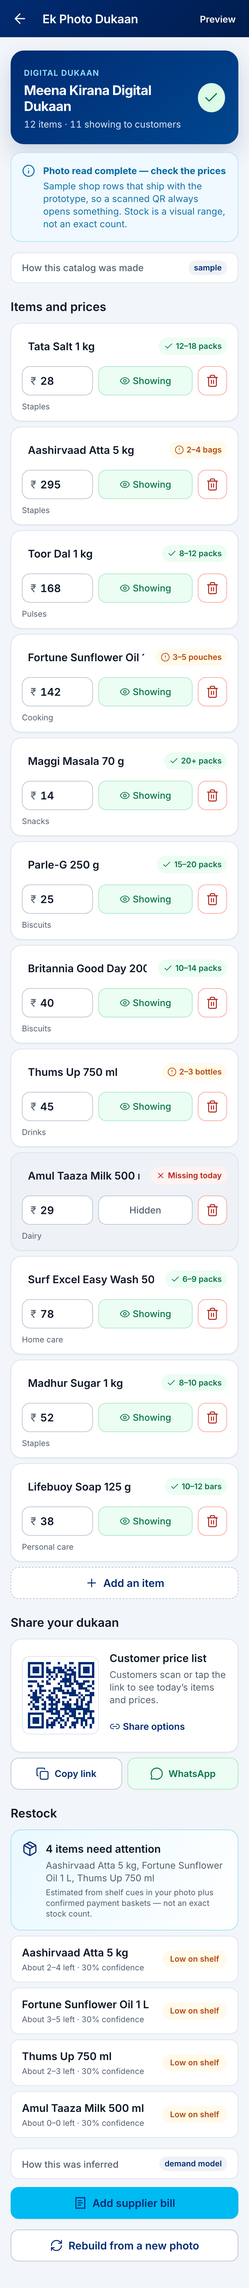
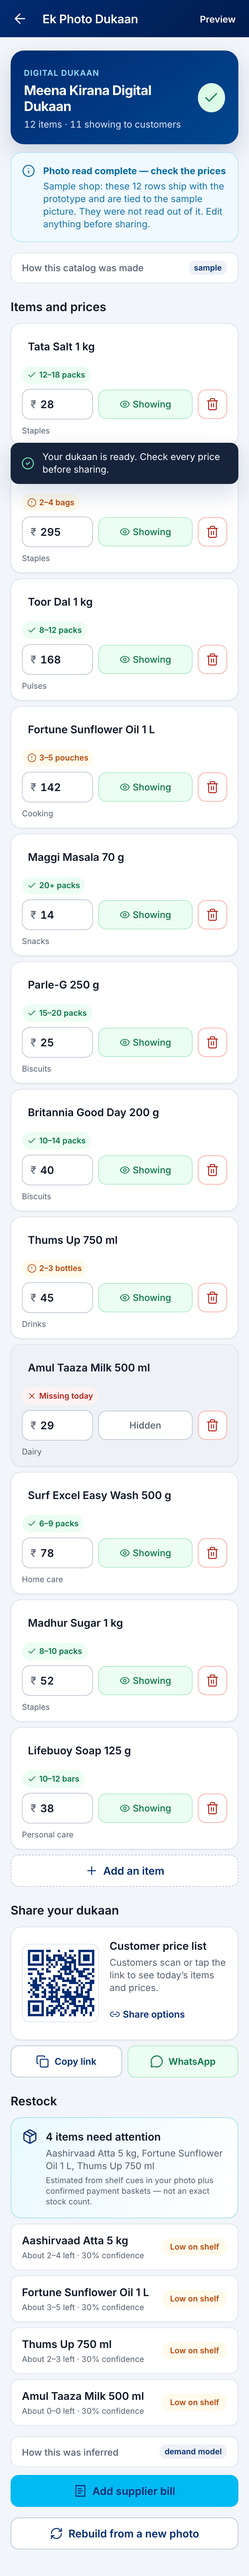
Finish the accessibility pass on inputs and the catalog editor.
Focus indicators on wrapped inputs were a cyan border with a cyan glow, which
sits under 3:1 against white and read as decoration rather than as focus. They
now use the same navy ring and cyan halo as every other focusable control, so
keyboard position is obvious on the filter selects, the QR form and the price
fields.

Product names in the catalog editor were being squeezed by the stock tag on the
same flex line and clipped mid-word. The name field now takes the full row and
the tag wraps beneath it: the one string a merchant needs to read to trust the
catalog can no longer truncate at any text size.

Also left-aligns the form controls under the centred QR card, and refreshes the
route and journey screenshots against the current build.

diff --git a/merchant-app/src/Dukaan.css b/merchant-app/src/Dukaan.css
@@ -279,6 +279,13 @@
   font-size: var(--fs-label);
 }
 
+/* Sets up what the read will do before it runs, so an empty result reads as the
+   product working rather than as a broken sample. Wraps instead of truncating:
+   the caveat is the point of the line. */
+.sample-card .sample-hint {
+  text-wrap: pretty;
+}
+
 .sample-card > svg {
   flex-shrink: 0;
   width: var(--icon-md);
@@ -486,14 +493,17 @@
   background: var(--color-surface-sunken);
 }
 
+/* Product names are the one thing that must never truncate, so the stock tag
+   wraps to its own line rather than squeezing the field. */
 .item-top {
   display: flex;
+  flex-wrap: wrap;
   align-items: center;
   gap: var(--space-2);
 }
 
 .item-top > input {
-  flex: 1;
+  flex: 1 1 100%;
   min-width: 0;
   min-height: var(--tap);
   padding: 0 var(--space-2);
@@ -511,9 +521,9 @@
 }
 
 .item-top > input:focus {
-  border-color: var(--brand-cyan);
+  border-color: var(--brand-navy);
   background: var(--color-surface);
-  box-shadow: 0 0 0 3px rgb(0 186 242 / 22%);
+  box-shadow: 0 0 0 4px rgb(0 186 242 / 45%);
 }
 
 .stock-tag {

diff --git a/merchant-app/src/App.css b/merchant-app/src/App.css
@@ -1214,8 +1214,8 @@
 .filters select:focus,
 .form-field select:focus,
 .form-field input:focus {
-  border-color: var(--brand-cyan);
-  box-shadow: 0 0 0 3px rgb(0 186 242 / 22%);
+  border-color: var(--brand-navy);
+  box-shadow: 0 0 0 4px rgb(0 186 242 / 45%);
 }
 
 .result-label {
@@ -1717,6 +1717,12 @@
 
 .qr-page {
   text-align: center;
+}
+
+/* The QR card centres itself; form controls below it read left-aligned. */
+.qr-page .form-field,
+.qr-page .alert {
+  text-align: left;
 }
 
 /* Real UPI intent QR, shared by the merchant QR screen and the storefront. */
